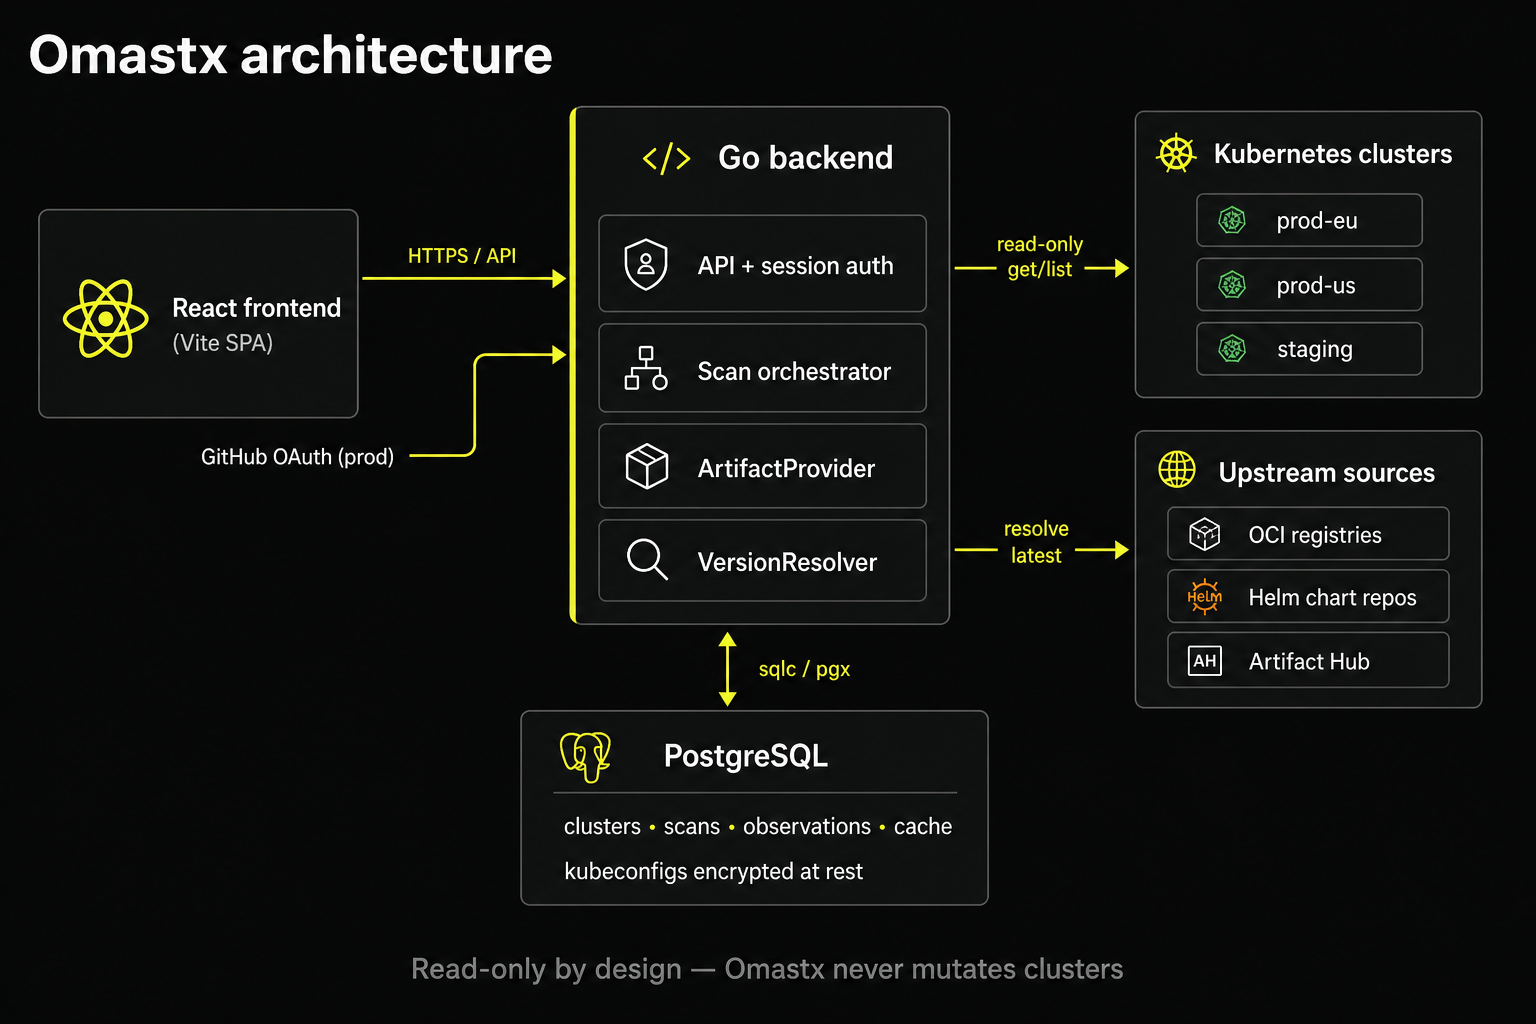
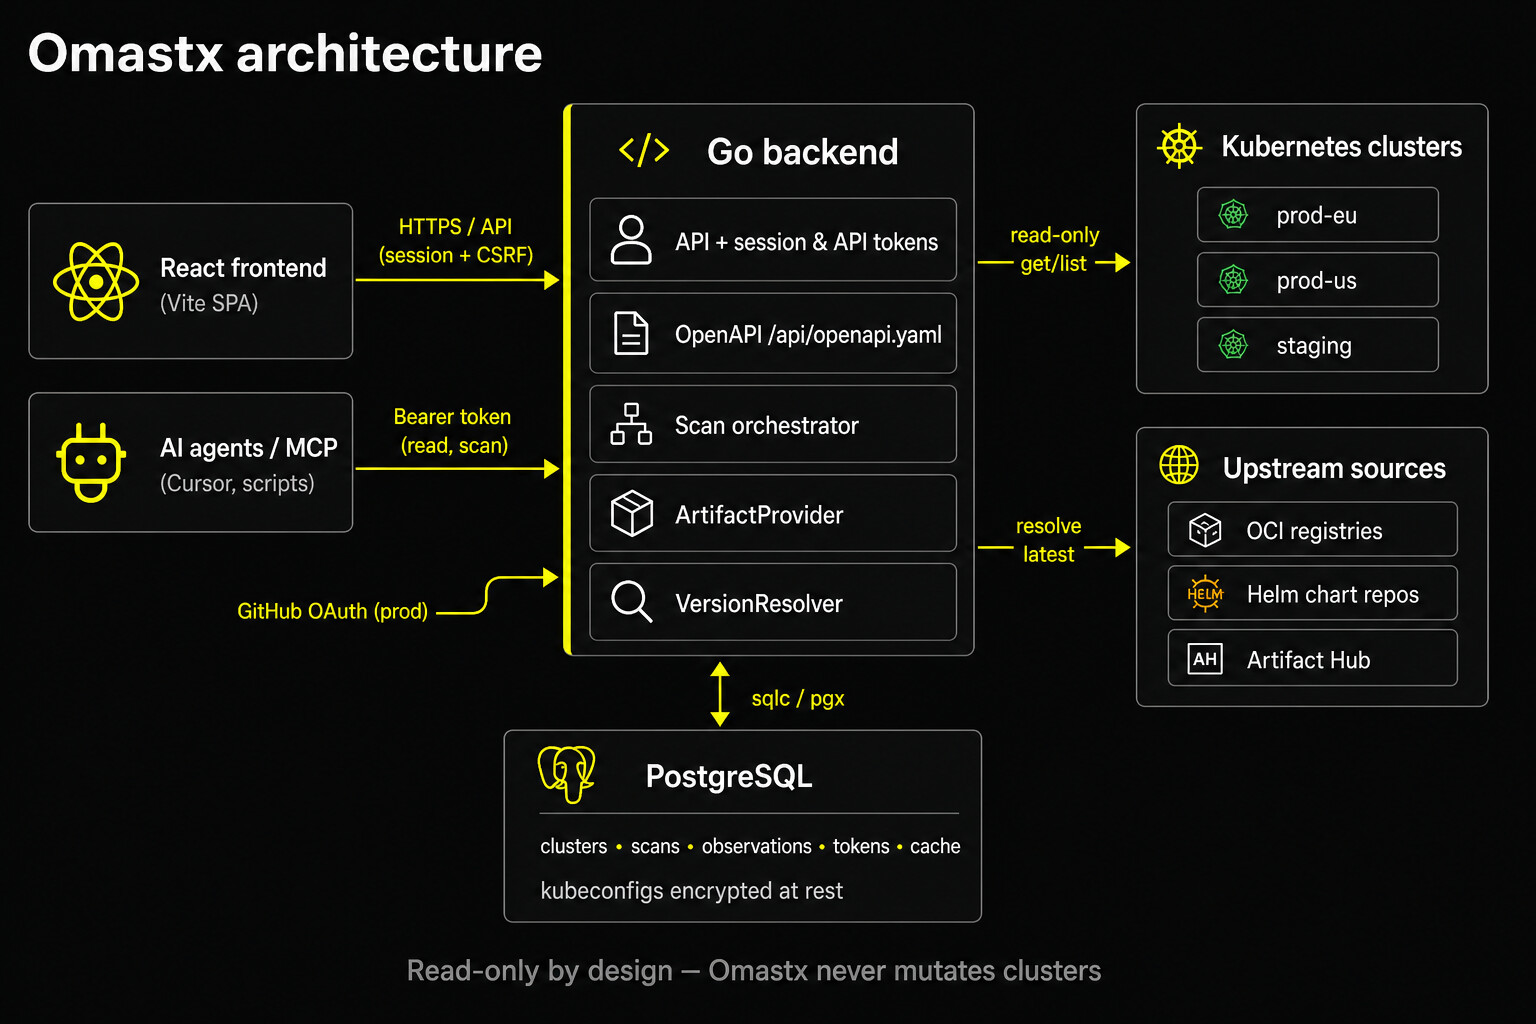
docs: update architecture diagram in README and add PNG source for derivatives

diff --git a/docs/screenshots/article/README.md b/docs/screenshots/article/README.md
@@ -30,7 +30,8 @@ Filenames written into this folder:
 | `07-connect-cluster.png` | Connect cluster onboarding (kubeconfig drop zone) |
 | `08-artifact-detail.png` | Artifact detail sheet - ingress-nginx major drift |
 | `09-cluster-prod-us-degraded.png` | prod-us degraded - images-only + unknown drift |
-| `10-architecture.jpg` | Architecture diagram (frontend, Go API, Postgres, K8s, upstream) |
+| `10-architecture.jpg` | Architecture diagram (SPA, MCP/Bearer clients, Go API, Postgres, K8s, upstream) |
+| `10-architecture.png` | Same diagram, PNG source for webp/avif derivatives |
 
 **Demo clusters** (seeded by `seed-fleet.sql`):
 

diff --git a/README.md b/README.md
@@ -5,7 +5,7 @@ is *running* in your Kubernetes clusters against what is *latest* upstream, and 
 gap as a navigable chart. Read-only by design: connect clusters with read-only
 kubeconfigs; Omastx never mutates anything.
 
-![Omastx architecture: React frontend, Go backend, PostgreSQL, read-only Kubernetes clusters, and upstream sources](docs/screenshots/article/10-architecture.jpg)
+![Omastx architecture: React SPA and MCP/Bearer clients, Go API, PostgreSQL, read-only Kubernetes clusters, and upstream sources](docs/screenshots/article/10-architecture.jpg)
 
 ## Local quickstart (docker compose)
 
